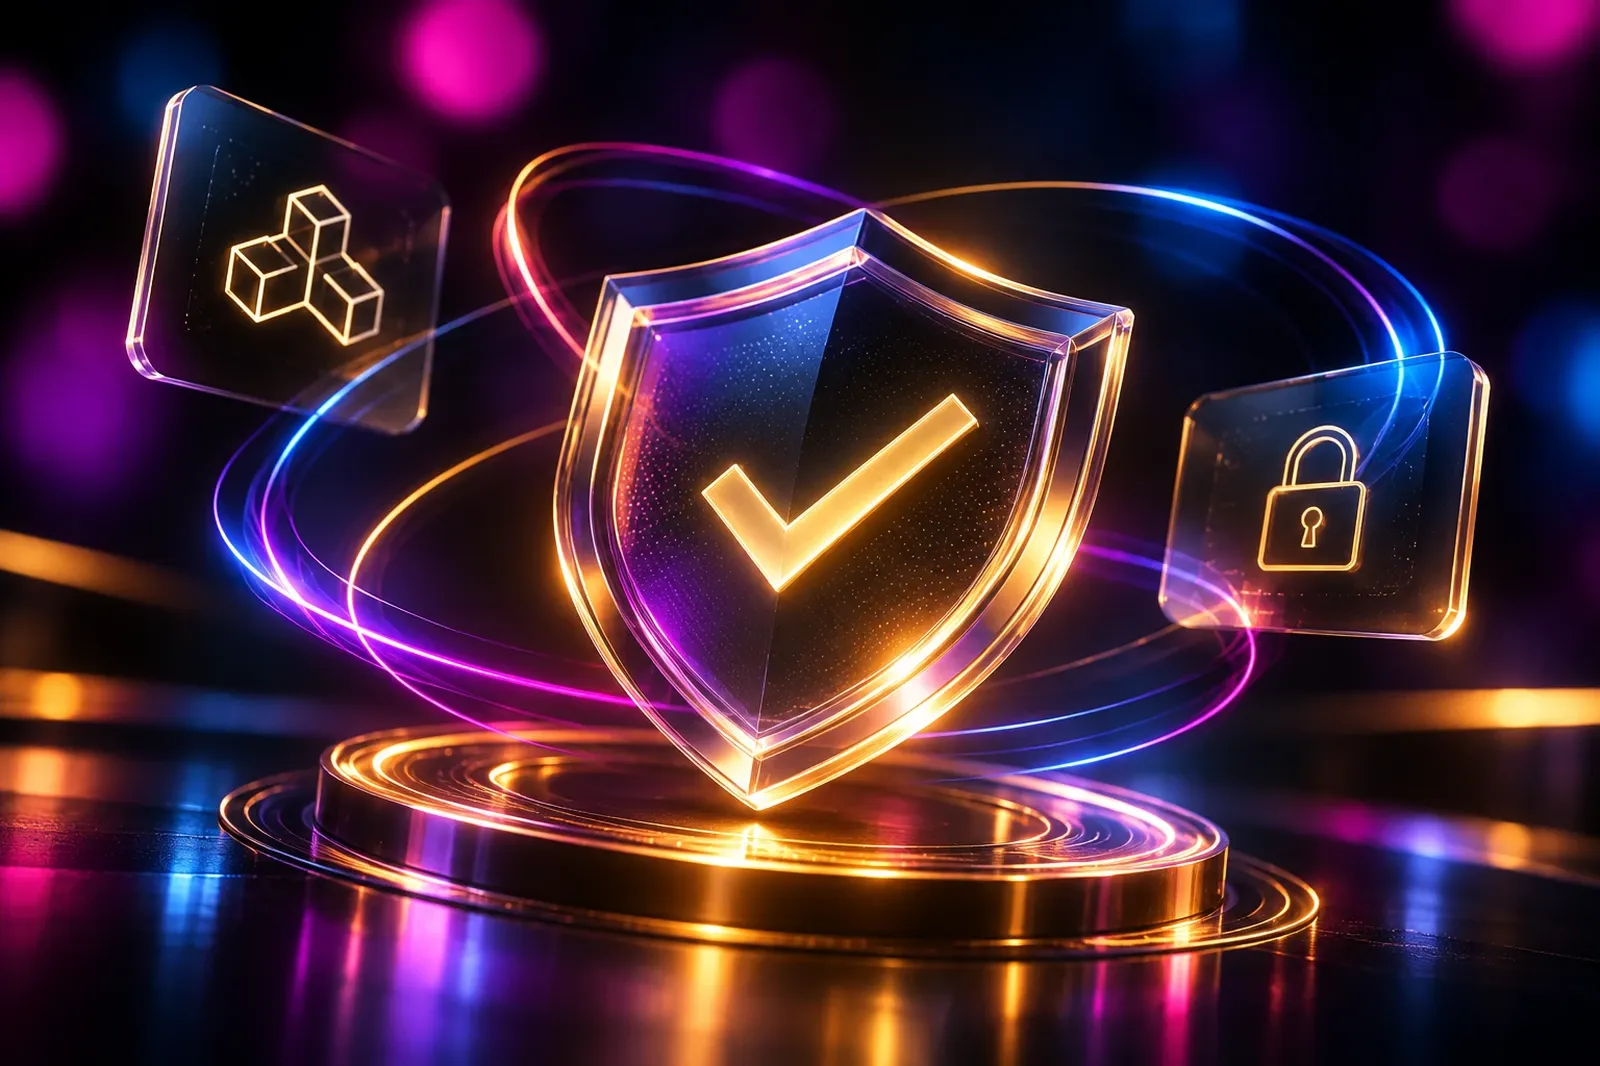
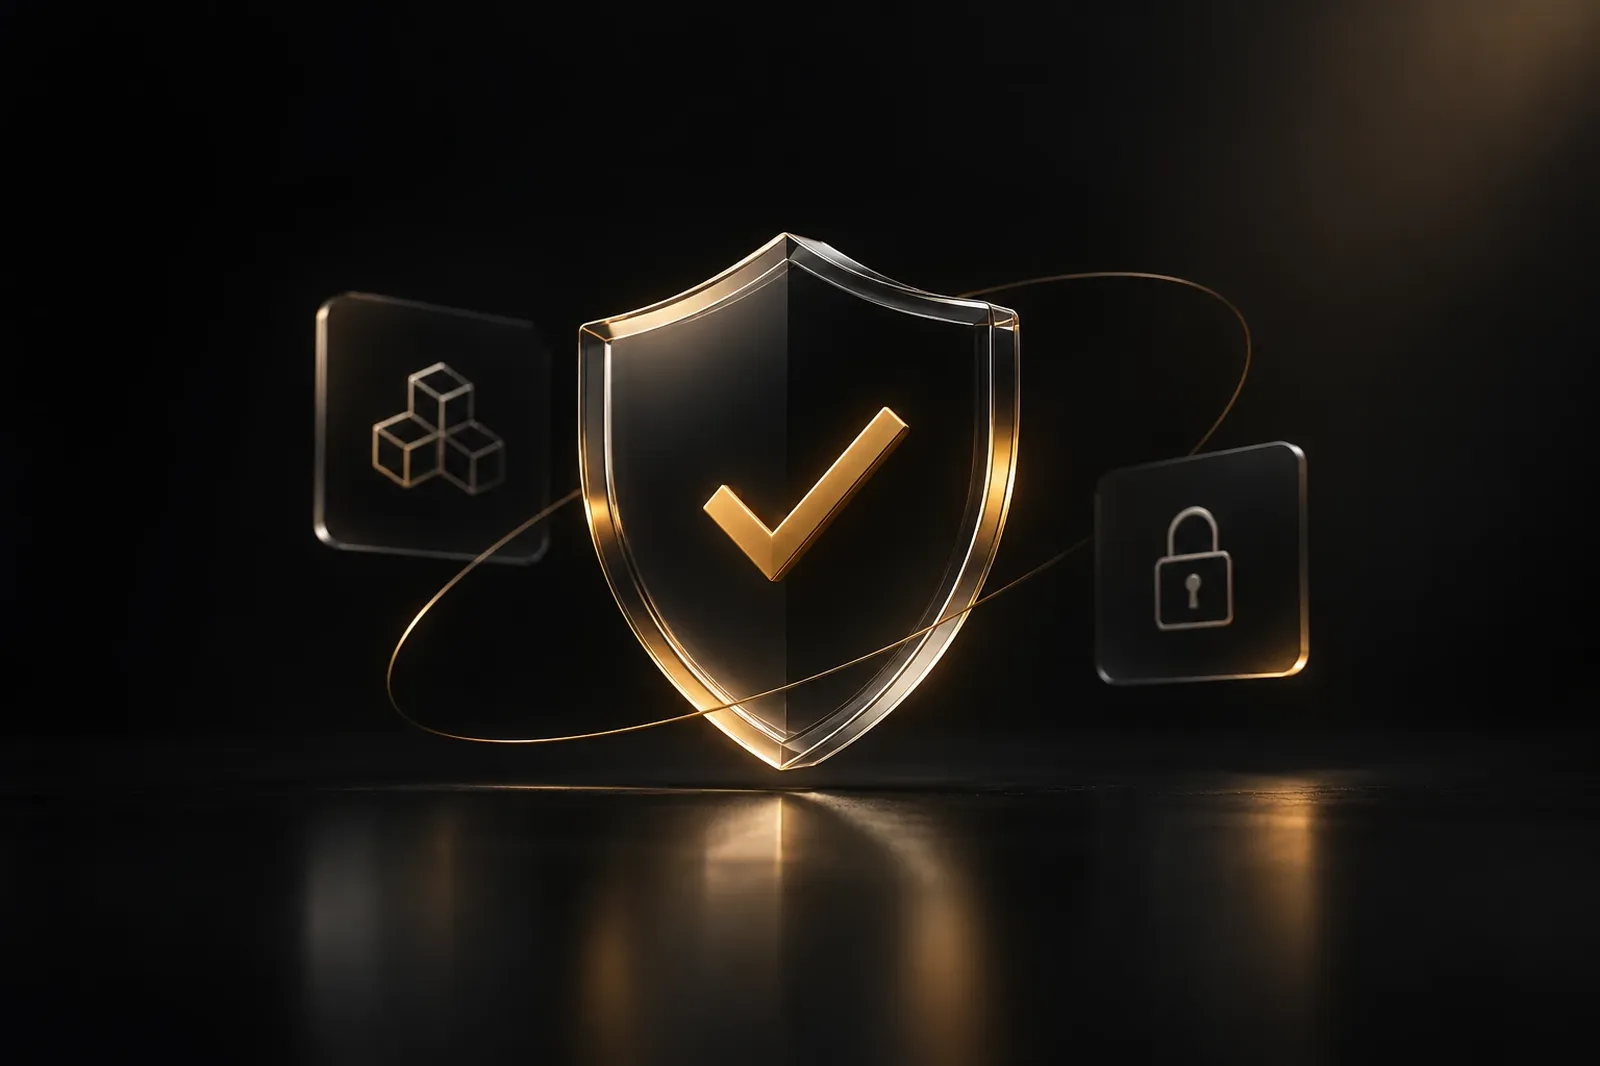
Swap in the black-and-gold fairness proofs image
Claude-Session: https://claude.ai/code/session_01RrizTHgBfiE5XTM2c3BTzX

diff --git a/src/pages/ProofPage.tsx b/src/pages/ProofPage.tsx
@@ -211,7 +211,7 @@ export default function ProofPage({ id }: { id?: string }) {
     <>
       <Hero
         image={MEDIA.shieldHero}
-        focus="55% 30%"
+        focus="50% 42%"
         vivid
        
         compact
